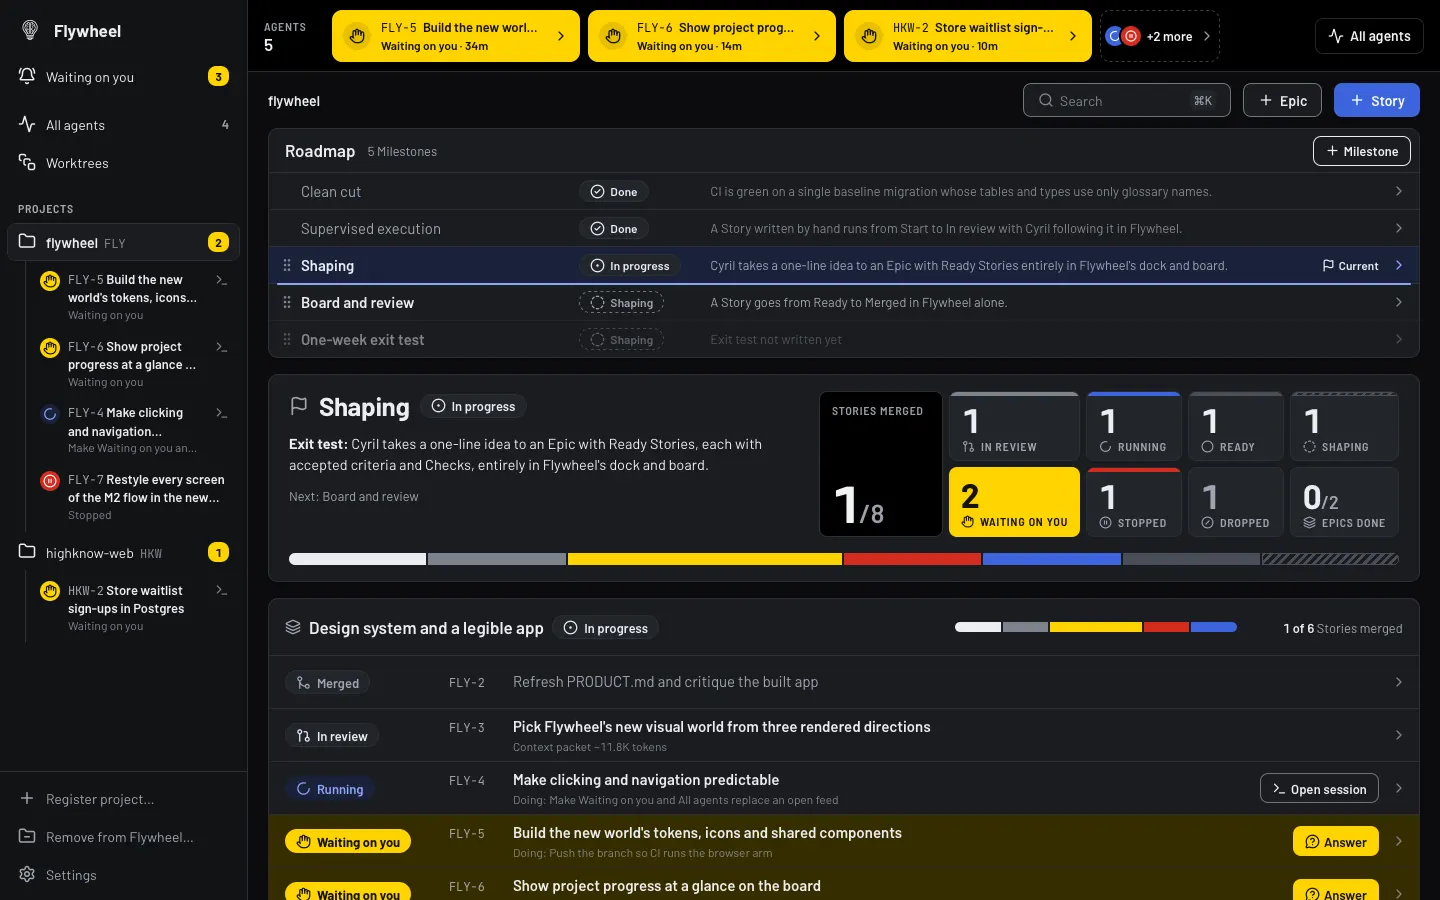
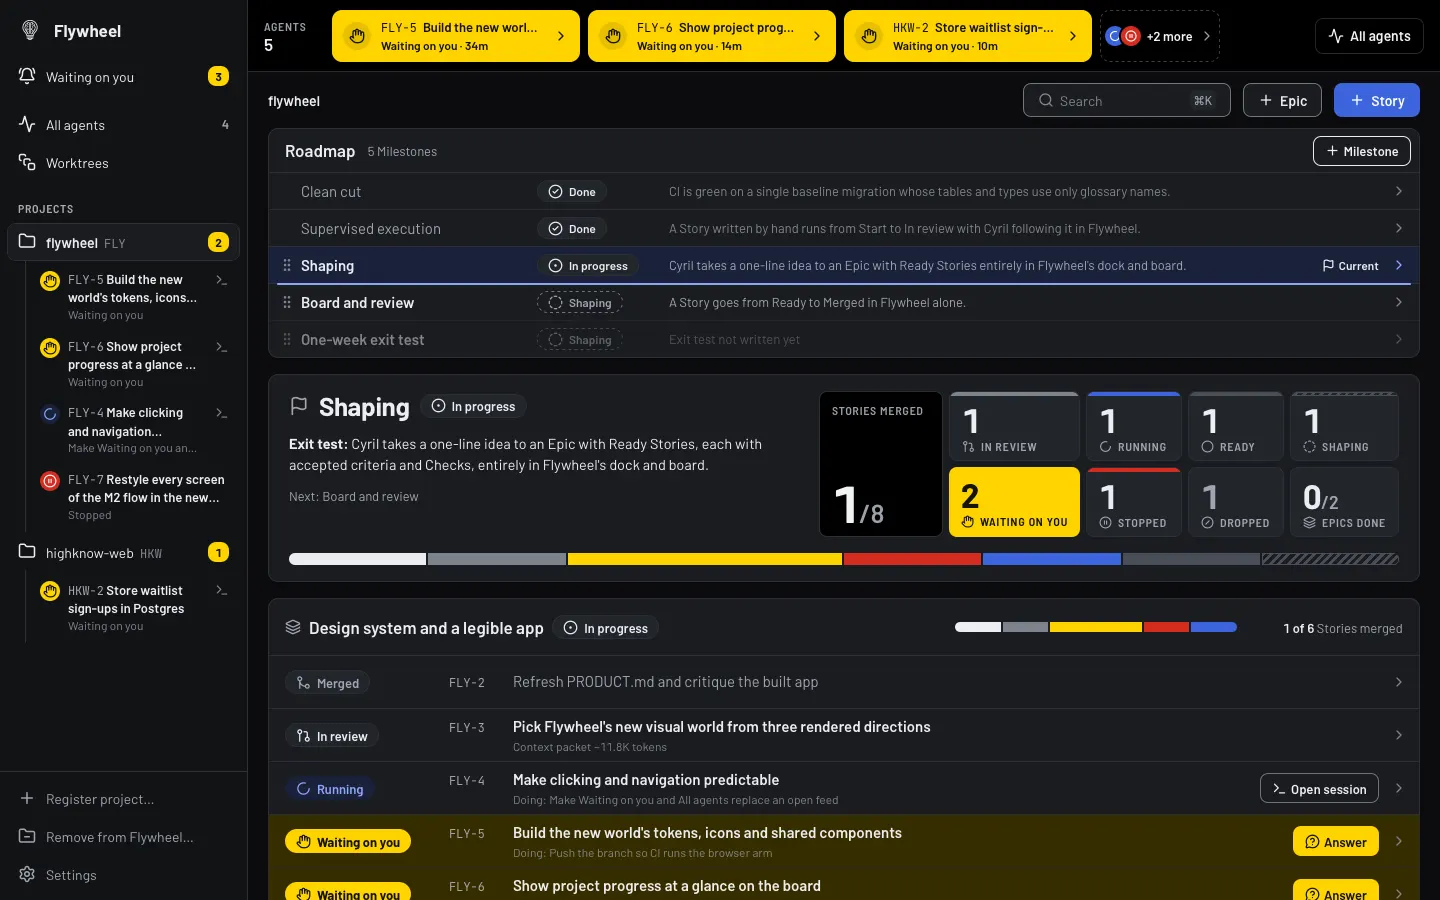
fix: the finish review's findings: the picked row stays tinted on hover, a hint per control, focus kept when the add field closes, the field and Exit test columns line up

diff --git a/packages/desktop/src/board/RoadmapStrip.tsx b/packages/desktop/src/board/RoadmapStrip.tsx
@@ -71,15 +71,29 @@ export function RoadmapStrip({ projectId }: { projectId: string }) {
   const [dropTarget, setDropTarget] = useState<string | null>(null);
   // After a keyboard move the row is re-rendered at its new place; its handle keeps the focus.
   const refocus = useRef<string | null>(null);
+  // After "+ Milestone" adds one, its row takes the focus once the Roadmap has re-read it.
+  const focusRow = useRef<string | null>(null);
   const listRef = useRef<HTMLOListElement>(null);
+  const addRef = useRef<HTMLButtonElement>(null);
   const headingId = useId();
-  const hintId = useId();
+  const handleHintId = useId();
+  const rowHintId = useId();
+  const formId = useId();
 
   useEffect(() => {
     const id = refocus.current;
     if (!id || !listRef.current) return;
     const handle = listRef.current.querySelector<HTMLElement>(`[data-move-handle="${id}"]`);
     if (handle && document.activeElement !== handle) handle.focus();
+  });
+  useEffect(() => {
+    const id = focusRow.current;
+    if (!id || !listRef.current) return;
+    const row = listRef.current.querySelector<HTMLElement>(`[data-row-id="${id}"]`);
+    if (row) {
+      focusRow.current = null;
+      row.focus();
+    }
   });
 
   async function move(from: number, to: number, viaKeyboard: boolean) {
@@ -131,8 +145,10 @@ export function RoadmapStrip({ projectId }: { projectId: string }) {
           variant="outline"
           size="sm"
           className="ml-auto"
+          ref={addRef}
           aria-label="Add a Milestone"
           aria-expanded={adding}
+          aria-controls={adding ? formId : undefined}
           onClick={() => setAdding(true)}
         >
           <Plus aria-hidden="true" />
@@ -140,8 +156,11 @@ export function RoadmapStrip({ projectId }: { projectId: string }) {
         </Button>
       </header>
 
-      <p id={hintId} className="sr-only">
-        Drag the row, or press Alt with the Up or Down arrow, to move it on the Roadmap.
+      <p id={handleHintId} className="sr-only">
+        Press the Up or Down arrow to move it on the Roadmap, or drag the row.
+      </p>
+      <p id={rowHintId} className="sr-only">
+        Alt with the Up or Down arrow moves it on the Roadmap.
       </p>
 
       {roadmap.isError && <p className="m-0 px-4 py-3 text-body text-destructive-text">{errorText(roadmap.error)}</p>}
@@ -202,9 +221,10 @@ export function RoadmapStrip({ projectId }: { projectId: string }) {
                       <TooltipTrigger asChild>
                         <button
                           type="button"
+                          data-slot="roadmap-move-handle"
                           data-move-handle={milestone.id}
                           aria-label={`Move ${milestone.title}`}
-                          aria-describedby={hintId}
+                          aria-describedby={handleHintId}
                           onKeyDown={(event) => onRowKeyDown(event, index, true)}
                           onBlur={() => {
                             if (refocus.current === milestone.id) refocus.current = null;
@@ -221,11 +241,14 @@ export function RoadmapStrip({ projectId }: { projectId: string }) {
                 <button
                   type="button"
                   aria-label={`${milestone.title}, ${stateWord}${milestone.current ? ", Current Milestone" : ""}`}
-                  aria-describedby={exitTestId}
+                  // A slot of its own, so the legacy bare-button hover (App.css) never greys the picked row.
+                  data-slot="roadmap-row"
+                  data-row-id={milestone.id}
+                  aria-describedby={closed ? exitTestId : `${exitTestId} ${rowHintId}`}
                   aria-current={selected ? "true" : undefined}
                   onClick={() => selectMilestone(projectId, milestone.id)}
                   onKeyDown={(event) => onRowKeyDown(event, index, false)}
-                  className="grid min-h-9 min-w-0 flex-1 grid-cols-[minmax(10rem,1fr)_7.5rem_minmax(0,2.2fr)_4.5rem_16px] items-center gap-x-3 rounded-sm py-1 pr-3 text-left"
+                  className="grid min-h-9 min-w-0 flex-1 grid-cols-[minmax(8rem,14rem)_7.5rem_minmax(0,1fr)_4.5rem_16px] items-center gap-x-3 rounded-sm py-1 pr-3 text-left"
                 >
                   <span
                     title={milestone.title}
@@ -275,10 +298,16 @@ export function RoadmapStrip({ projectId }: { projectId: string }) {
 
       {adding && (
         <NewMilestone
+          id={formId}
           projectId={projectId}
           onDone={(created) => {
             setAdding(false);
-            if (created) selectMilestone(projectId, created.id);
+            // Focus never falls to the page: back to "+ Milestone", then onto the new row once it is read.
+            addRef.current?.focus();
+            if (created) {
+              focusRow.current = created.id;
+              selectMilestone(projectId, created.id);
+            }
           }}
         />
       )}
@@ -292,7 +321,15 @@ export function RoadmapStrip({ projectId }: { projectId: string }) {
 }
 
 /** "+ Milestone": a one-line outcome, added at the end of the Roadmap in Shaping. Escape or Cancel closes. */
-function NewMilestone({ projectId, onDone }: { projectId: string; onDone: (created: MilestoneDto | null) => void }) {
+function NewMilestone({
+  id,
+  projectId,
+  onDone,
+}: {
+  id: string;
+  projectId: string;
+  onDone: (created: MilestoneDto | null) => void;
+}) {
   const [title, setTitle] = useState("");
   const [error, setError] = useState<string | null>(null);
   const [saving, setSaving] = useState(false);
@@ -313,11 +350,12 @@ function NewMilestone({ projectId, onDone }: { projectId: string; onDone: (creat
 
   return (
     <form
+      id={id}
       onSubmit={submit}
       onKeyDown={(event) => {
         if (event.key === "Escape") onDone(null);
       }}
-      className="flex flex-wrap items-center gap-1.5 border-t border-border py-2 pr-2 pl-12"
+      className="flex flex-wrap items-center gap-1.5 border-t border-border py-2 pr-2 pl-8"
     >
       <Input
         aria-label="New Milestone's outcome"

diff --git a/packages/desktop/src/board/__tests__/roadmap-strip.test.tsx b/packages/desktop/src/board/__tests__/roadmap-strip.test.tsx
@@ -226,6 +226,17 @@ describe("RoadmapStrip: + Milestone", () => {
     expect(screen.queryByRole("textbox", { name: "New Milestone's outcome" })).toBeNull();
   });
 
+  it("Escape closes the field and gives the focus back to + Milestone", async () => {
+    renderBoard();
+    const add = within(await strip()).getByRole("button", { name: "Add a Milestone" });
+    fireEvent.click(add);
+    expect(add).toHaveAttribute("aria-expanded", "true");
+    fireEvent.keyDown(screen.getByRole("textbox", { name: "New Milestone's outcome" }), { key: "Escape" });
+    expect(screen.queryByRole("textbox", { name: "New Milestone's outcome" })).toBeNull();
+    expect(document.activeElement).toBe(add);
+    expect(milestoneCreate).not.toHaveBeenCalled();
+  });
+
   it("offers the first Milestone on an empty Roadmap", async () => {
     milestoneList.mockResolvedValue([]);
     storyListForProject.mockResolvedValue([]);
